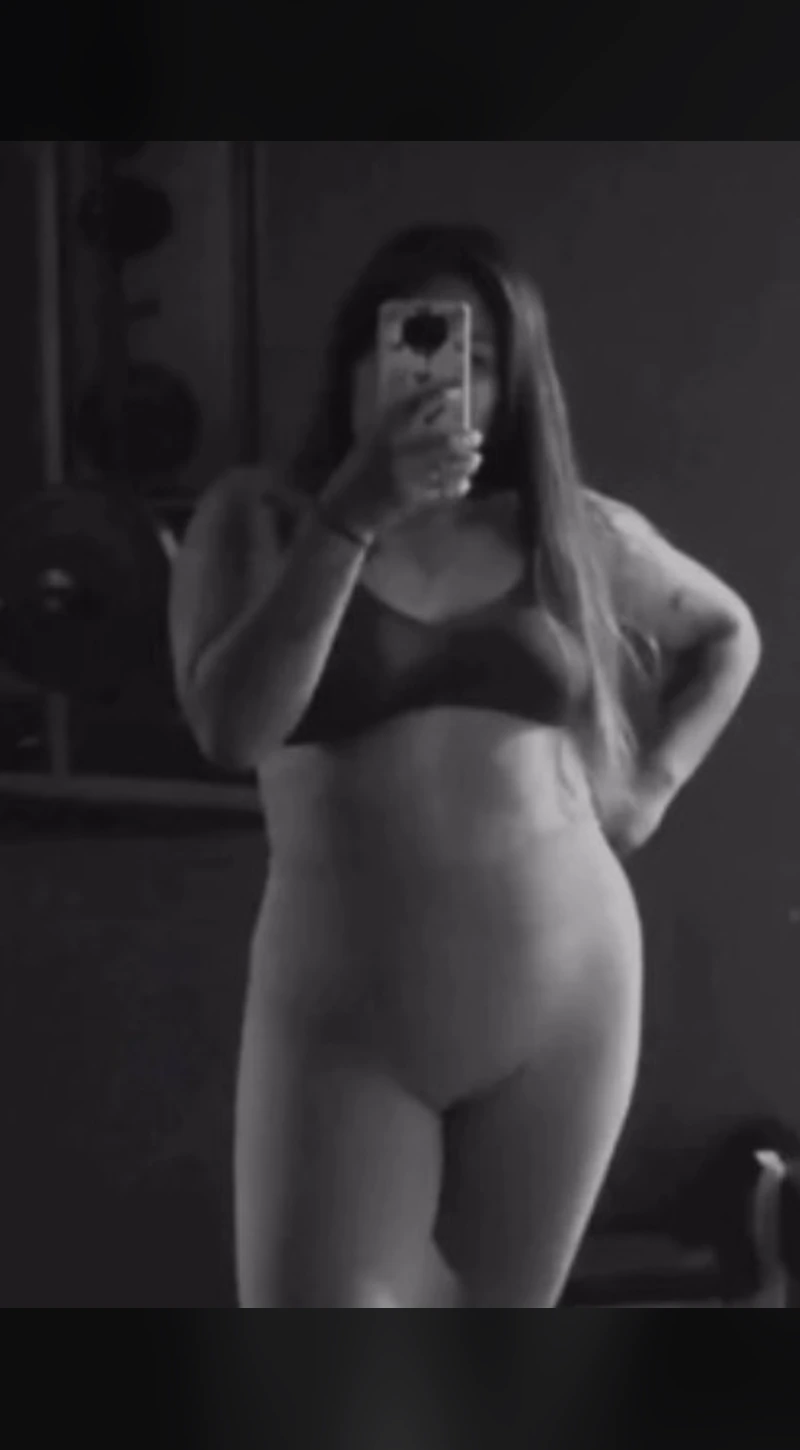
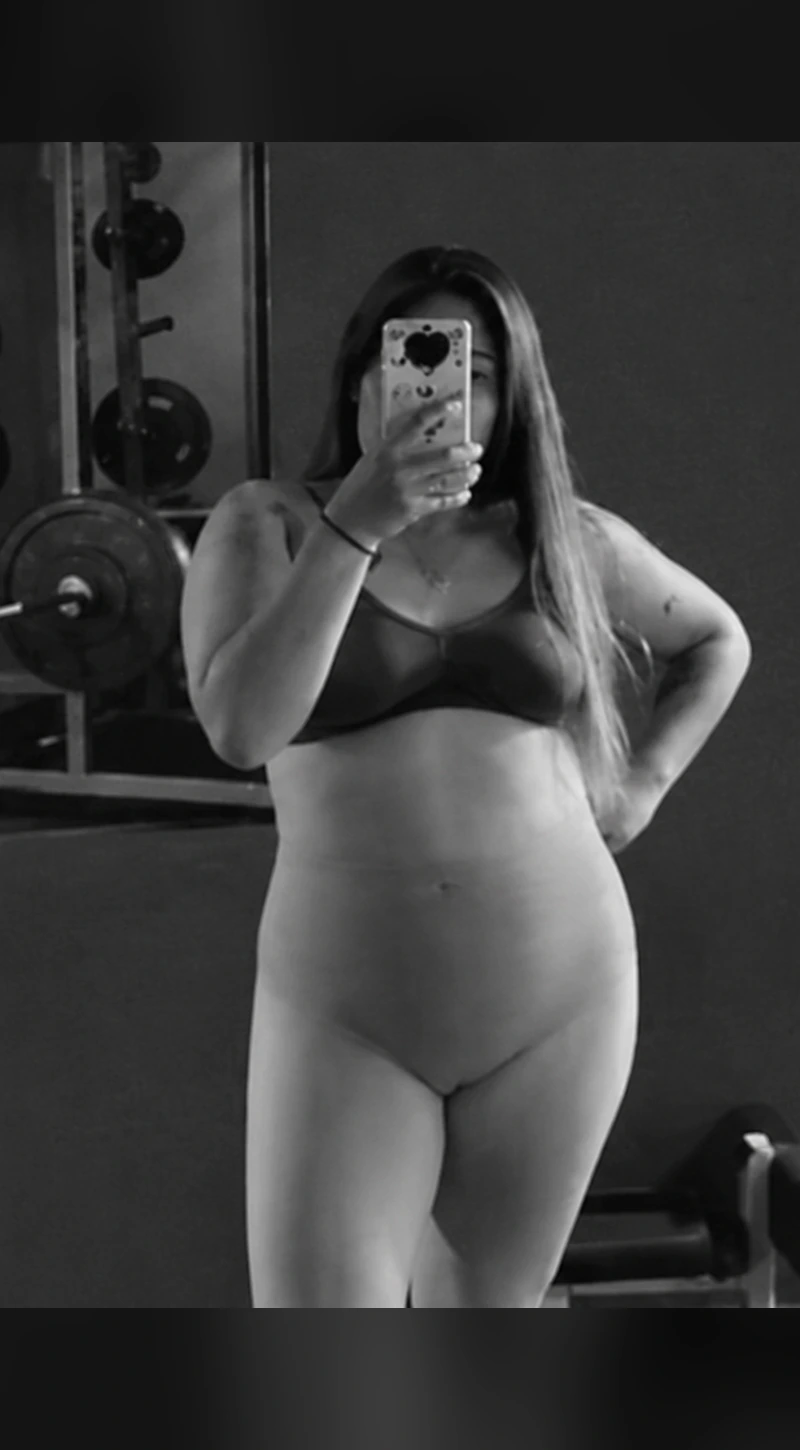
Use higher-quality photos for transformations 15 and 17
Claude-Session: https://claude.ai/code/session_018aXvGn6TJyX7pbDPTGbxZd

Changed region(s): [[0.0, 0.0931, 1.0, 0.9621], [0.0, 0.4034, 0.0312, 0.4345]]

diff --git a/index.html b/index.html
@@ -193,8 +193,8 @@
           </li>
           <li class="change reveal" data-more hidden>
             <figure>
-              <span class="change__half"><img src="assets/img/cambios/cambio-15-a.webp?v=4" alt="Antes, cliente 15" width="800" height="1450" loading="lazy" decoding="async"><b>Antes</b></span>
-              <span class="change__half"><img src="assets/img/cambios/cambio-15-d.webp?v=4" alt="Después, cliente 15" width="800" height="1450" loading="lazy" decoding="async"><b>Después</b></span>
+              <span class="change__half"><img src="assets/img/cambios/cambio-15-a.webp?v=5" alt="Antes, cliente 15" width="800" height="1450" loading="lazy" decoding="async"><b>Antes</b></span>
+              <span class="change__half"><img src="assets/img/cambios/cambio-15-d.webp?v=5" alt="Después, cliente 15" width="800" height="1450" loading="lazy" decoding="async"><b>Después</b></span>
             </figure>
           </li>
           <li class="change reveal" data-more hidden>
@@ -205,8 +205,8 @@
           </li>
           <li class="change reveal" data-more hidden>
             <figure>
-              <span class="change__half"><img src="assets/img/cambios/cambio-17-a.webp?v=4" alt="Antes, cliente 17" width="800" height="1450" loading="lazy" decoding="async"><b>Antes</b></span>
-              <span class="change__half"><img src="assets/img/cambios/cambio-17-d.webp?v=4" alt="Después, cliente 17" width="800" height="1450" loading="lazy" decoding="async"><b>Después</b></span>
+              <span class="change__half"><img src="assets/img/cambios/cambio-17-a.webp?v=5" alt="Antes, cliente 17" width="800" height="1450" loading="lazy" decoding="async"><b>Antes</b></span>
+              <span class="change__half"><img src="assets/img/cambios/cambio-17-d.webp?v=5" alt="Después, cliente 17" width="800" height="1450" loading="lazy" decoding="async"><b>Después</b></span>
             </figure>
           </li>
         </ul>
